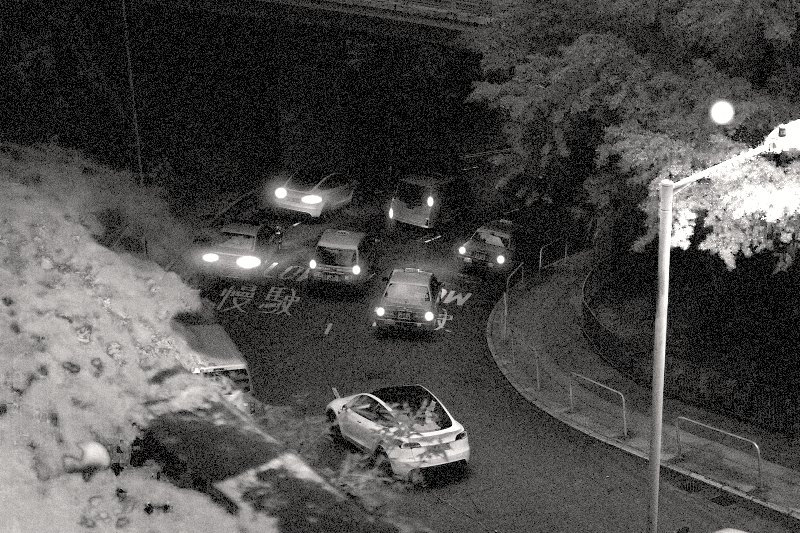
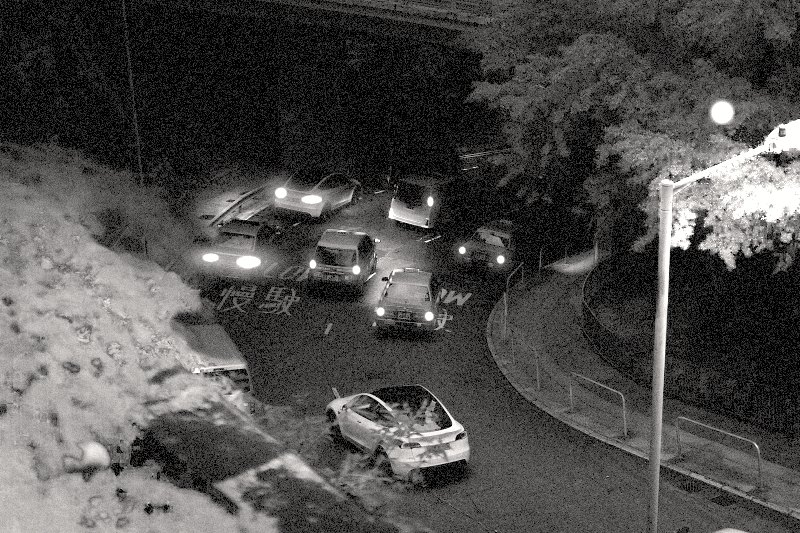
Road surface guide and night pictures: beams ahead of vehicles seen from behind

diff --git a/docs/road_surface.md b/docs/road_surface.md
@@ -356,10 +356,17 @@ provider knows where the points are
   further than in daylight rain because the camera has opened up for the
   dark, and they bloom. They are white whichever end they are on: with the
   infrared-cut filter out, a red lamp is a bright lamp and no more.
-- **Each lit vehicle throws its beam** on the road ahead of it: along the
-  road from its front, widening, half as strong at fourteen metres and
-  gone by seventy-five, and cut off above the height of a bonnet, as a
-  dipped beam is.
+- **Each lit vehicle throws its beam** on the road ahead of it: from its
+  front, widening, several times what a street lamp puts under itself,
+  half as strong at fourteen metres and gone by seventy-five, and cut off
+  above the height of a bonnet, as a dipped beam is. Which way it points
+  is which end is seen: away from the camera for a vehicle seen from
+  behind, whose beam shows as the road lit beyond it and to either side,
+  and at the camera for one seen from the front. Where the outline is
+  long, as seen from above, its long way is the heading. Where a
+  vehicle's lamps sit on its outline is not used: on a car seen from
+  behind at a low angle they are above its middle, and beams taken from
+  that were thrown back at the camera.
 
 Lamps are added as light, after the illuminator's falloff and the
 auto-exposure, so neither dims them, and whatever follows in a pipeline,
